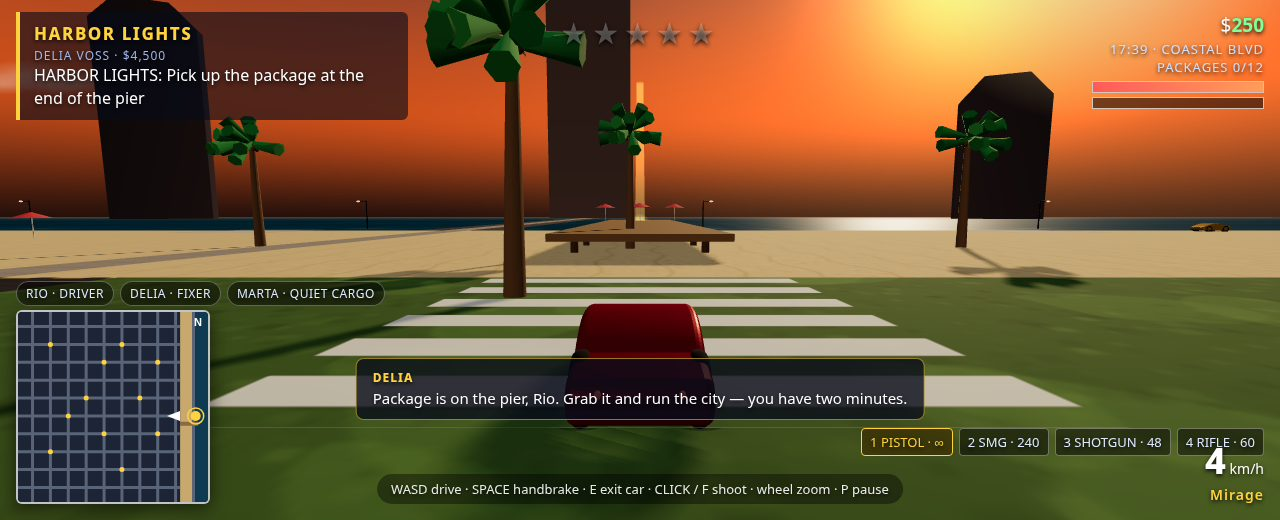
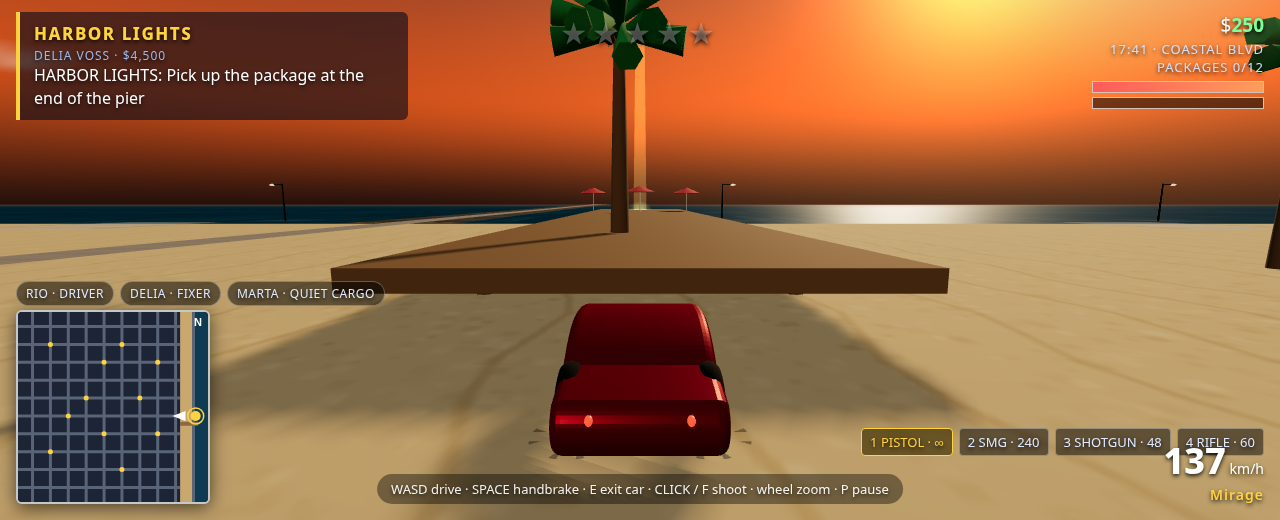
gta6-01 round 10 attempt 5: clear pier palms, heli in frame, mission runs west through downtown, night parked

diff --git a/game/src/shots.js b/game/src/shots.js
@@ -68,7 +68,7 @@ export function stageShot(mode, ctx) {
       { x: 176, z: 34, h: Math.PI / 2, speed: 13 },
       { x: 240, z: 28, h: -Math.PI / 2, speed: 10 },
     ]);
-    showHeli(ctx, 255, 30, 55);
+    showHeli(ctx, 268, 14, 50);
     const rt = createMissionRuntime(missionById('m2'), ctx);
     rt.stageIndex = 0;
     state.mission = rt;
@@ -95,11 +95,13 @@ export function stageShot(mode, ctx) {
     city.applyTimeOfDay('golden');
     state.timeOfDay = 'golden';
     state.clockMinutes = 18 * 60 + 5;
-    putPlayerInCar(ctx, 70, 32, Math.PI / 2, 18);
+    // Westbound through downtown, toward the hideout (the timed run's goal).
+    putPlayerInCar(ctx, 0, 32, -Math.PI / 2, 18);
     seedTraffic(ctx, [
-      { x: 120, z: 30, h: Math.PI / 2, speed: 13 },
-      { x: 132, z: 36, h: Math.PI / 2, speed: 12 },
-      { x: 76, z: 34, h: Math.PI / 2, speed: 14 },
+      { x: -20, z: 30, h: -Math.PI / 2, speed: 13 },
+      { x: -32, z: 36, h: -Math.PI / 2, speed: 12 },
+      { x: 20, z: 34, h: -Math.PI / 2, speed: 14 },
+      { x: -64, z: -64, h: 0, speed: 11 },
     ]);
     const rt = createMissionRuntime(missionById('m2'), ctx);
     rt.stageIndex = 1; // timed cross-city stage
@@ -116,13 +118,13 @@ export function stageShot(mode, ctx) {
     city.applyTimeOfDay('night');
     state.timeOfDay = 'night';
     state.clockMinutes = 21 * 60 + 40;
-    putPlayerInCar(ctx, 160, -32, Math.PI / 2, 12);
+    putPlayerInCar(ctx, 188, -32, Math.PI / 2, 12);
     seedTraffic(ctx, [
       { x: 210, z: -30, h: Math.PI / 2, speed: 11 },
       { x: 222, z: -36, h: Math.PI / 2, speed: 10 },
       { x: 168, z: -34, h: Math.PI / 2, speed: 12 },
     ]);
-    showHeli(ctx, 245, 28, -20);
+    showHeli(ctx, 250, 12, -18);
     ctx.hud.say('MARTA', 'The boulevard never sleeps. Neither do we.');
     state.cameraZoom = 1.1;
   }

diff --git a/game/src/main.js b/game/src/main.js
@@ -238,8 +238,11 @@ function step(dt) {
   if (state.clockMinutes >= 1440) state.clockMinutes -= 1440;
 
   // Screenshot staging: keep the car rolling so chase shots read as
-  // mid-action (the car drives toward the pier while the scene settles).
-  if (shotMode && state.player.inCar) input.keys.add('up');
+  // mid-action (the car drives while the scene settles). The night shot
+  // stays parked on the boulevard: beams + lamps + palms do the work.
+  if ((shotMode === 'cover' || shotMode === 'mission') && state.player.inCar) {
+    input.keys.add('up');
+  }
 
   // Auto time-of-day from the clock (skipped in shot mode).
   if (!shotMode) {

diff --git a/game/src/city.js b/game/src/city.js
@@ -285,8 +285,10 @@ export function createCity(scene) {
   }
 
   // --- Palms along the coastal boulevard + beach umbrellas ---
+  // (kept clear of the pier approach road z=32 so no palm blocks the cover)
   for (let z = -288; z <= 288; z += 32) {
     for (const x of [226, 252]) {
+      if (Math.abs(z - 32) < 14) continue;
       const palm = buildPalm(rng);
       palm.position.set(x + rng.range(-3, 3), 0, z + rng.range(-6, 6));
       scene.add(palm);
